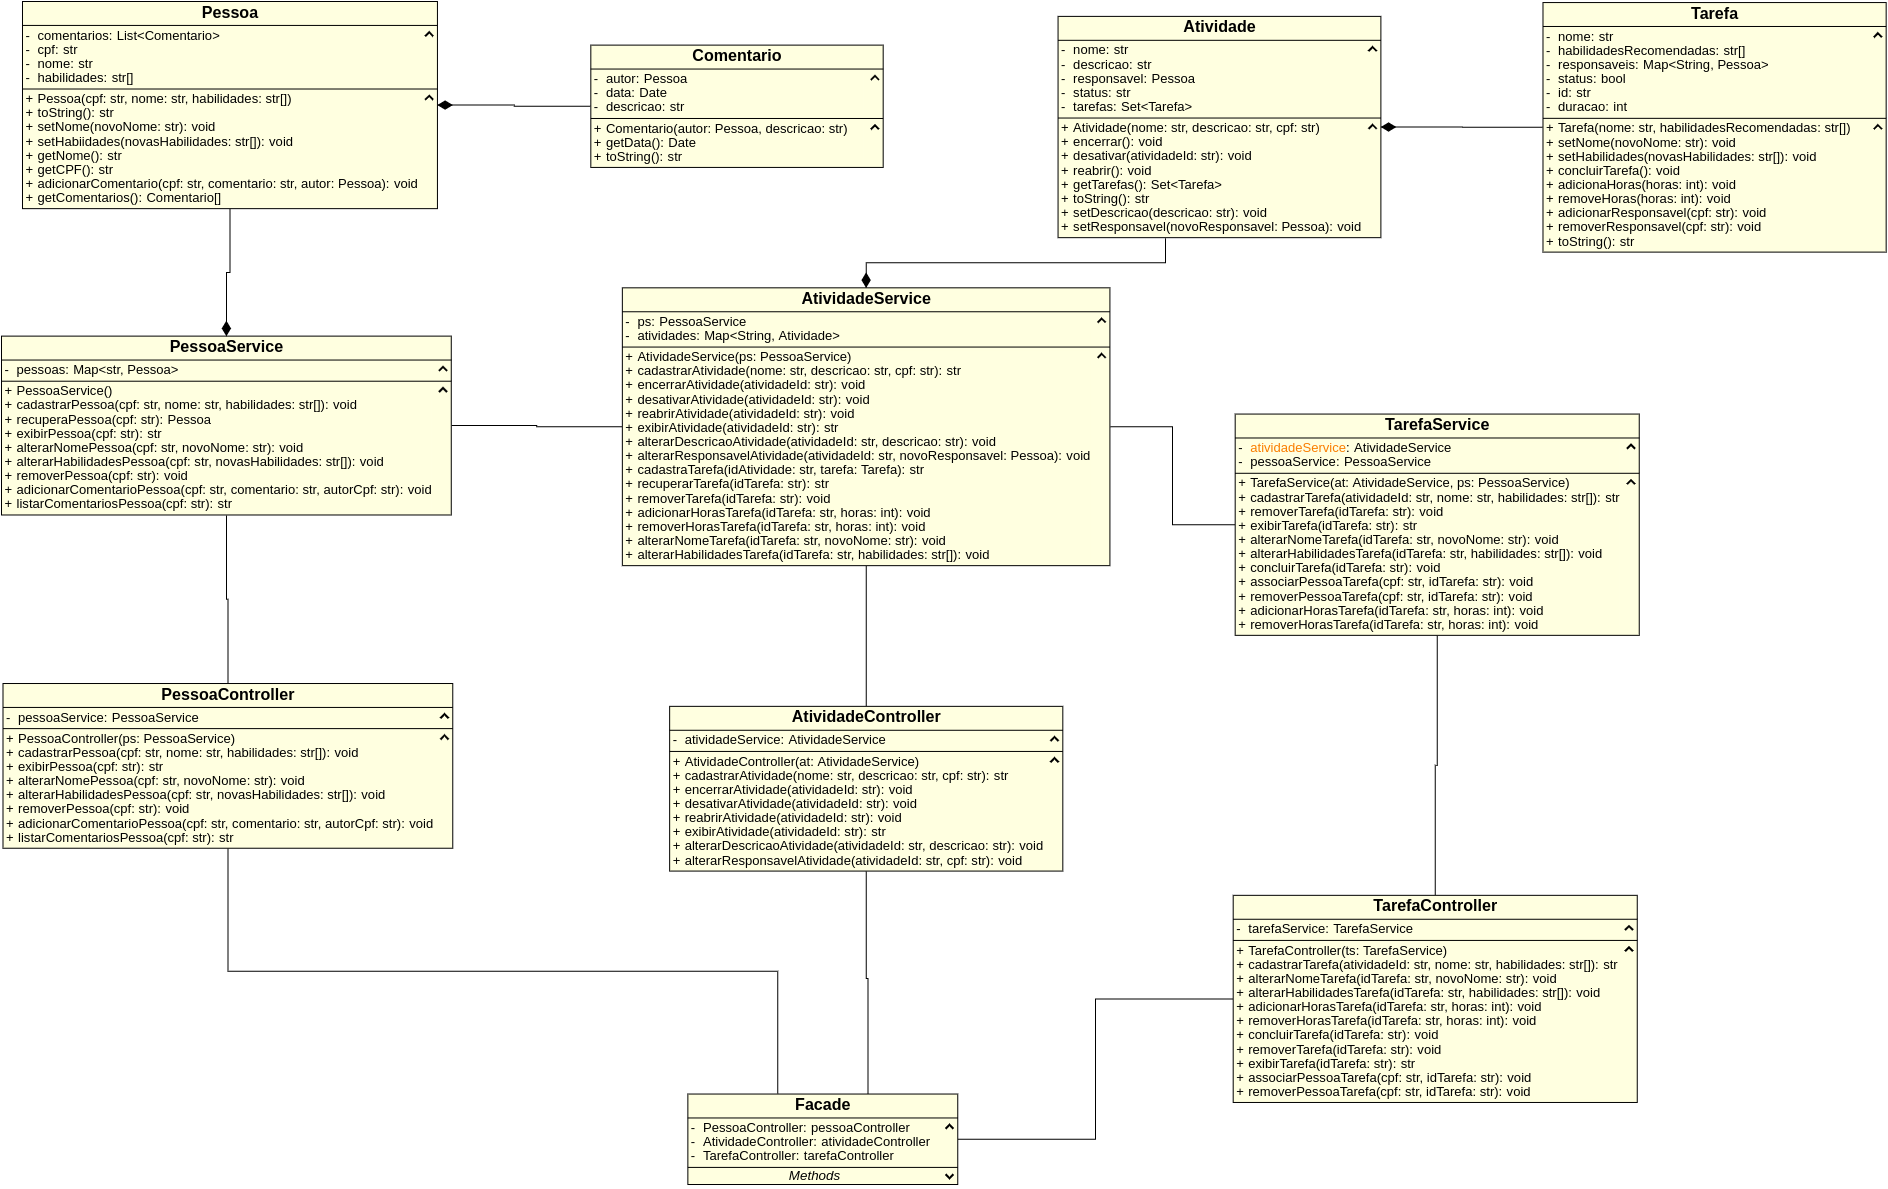
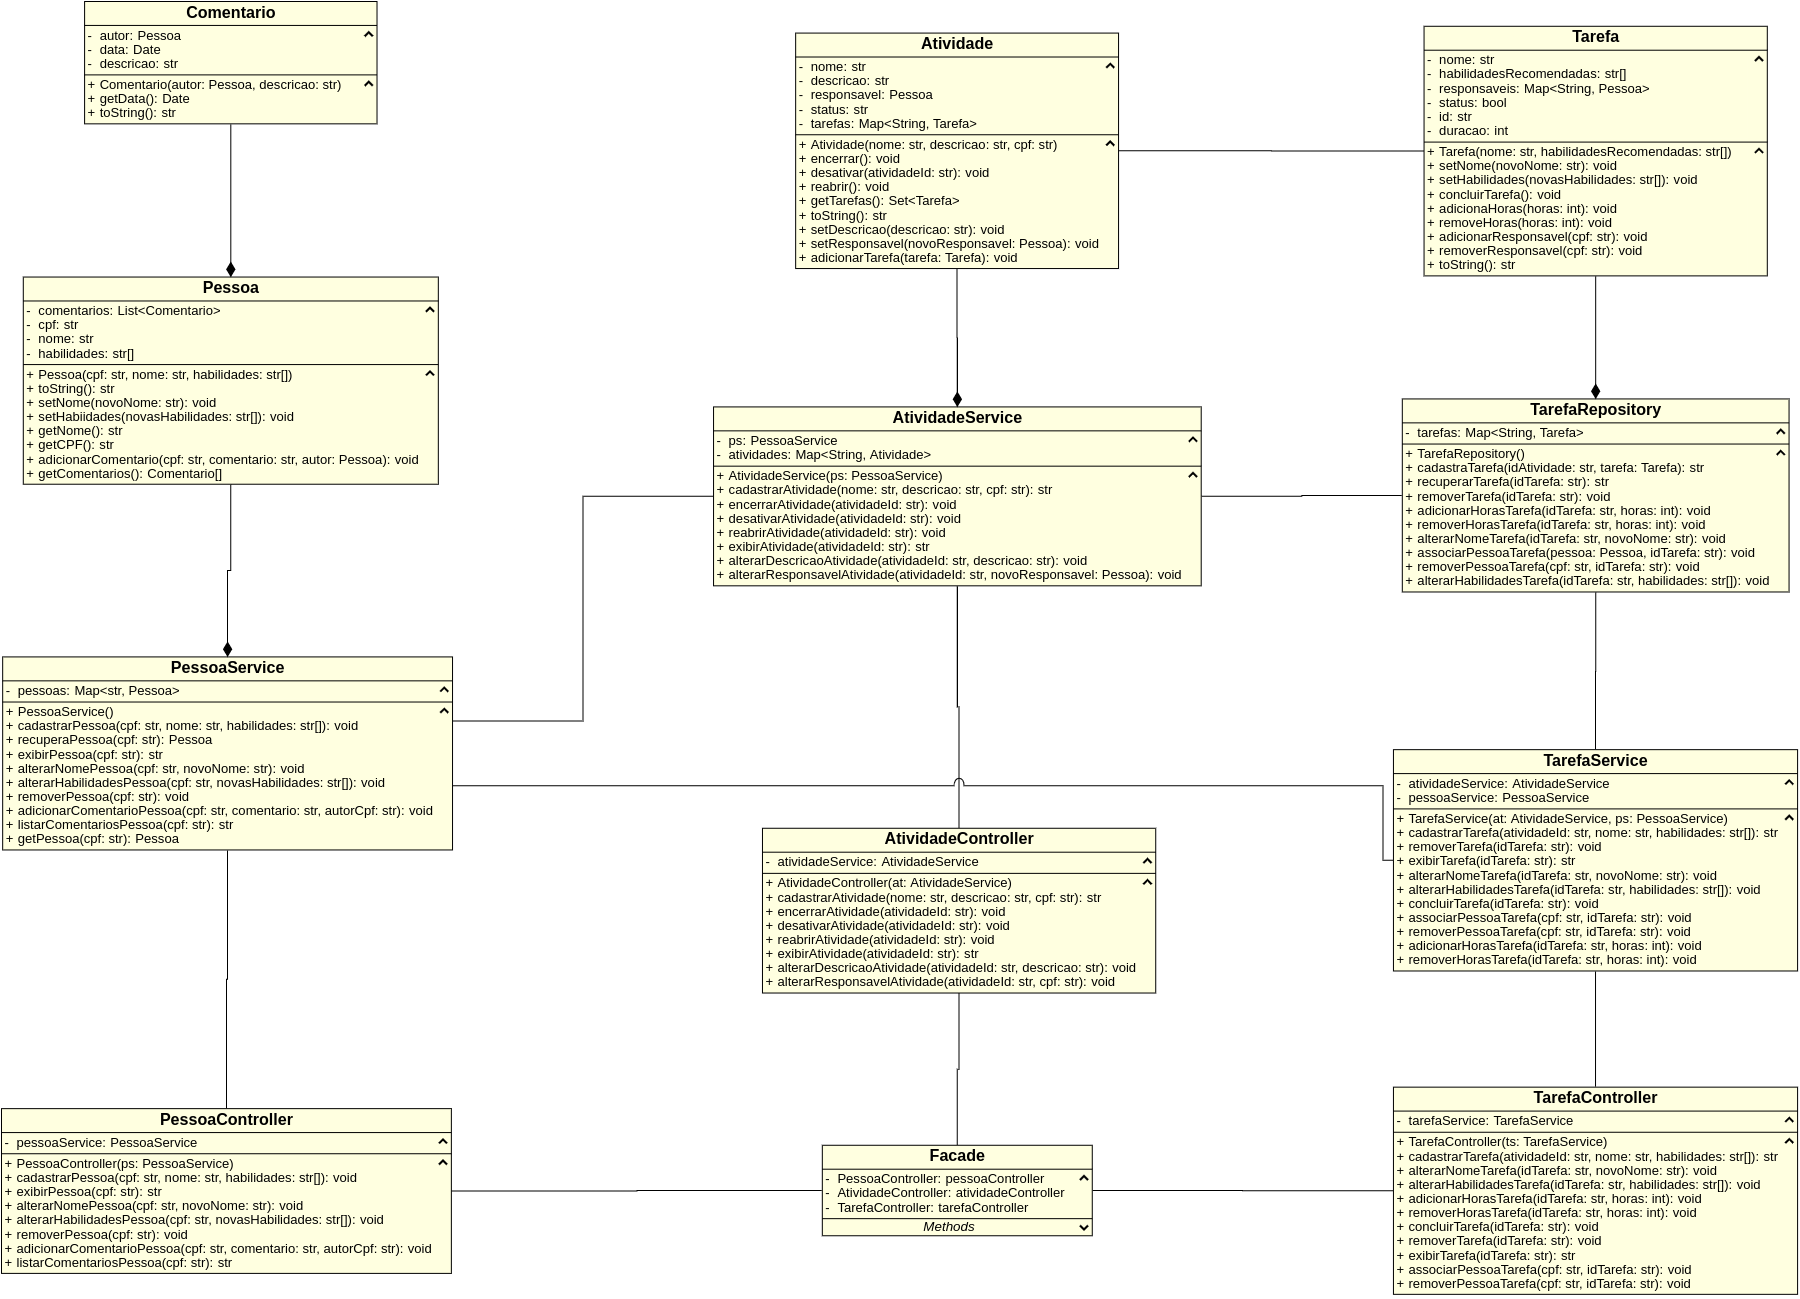
Atualizacao uml

diff --git a/src/sapo/pessoa/PessoaService.java b/src/sapo/pessoa/PessoaService.java
@@ -41,4 +41,8 @@ public class PessoaService {
     public String listaComentarios(String cpf) {
         return pessoaRepository.get(cpf).getComentarios();
     }
+
+    public Pessoa getPessoa(String cpf) {
+        return pessoaRepository.get(cpf);
+    }
 }
